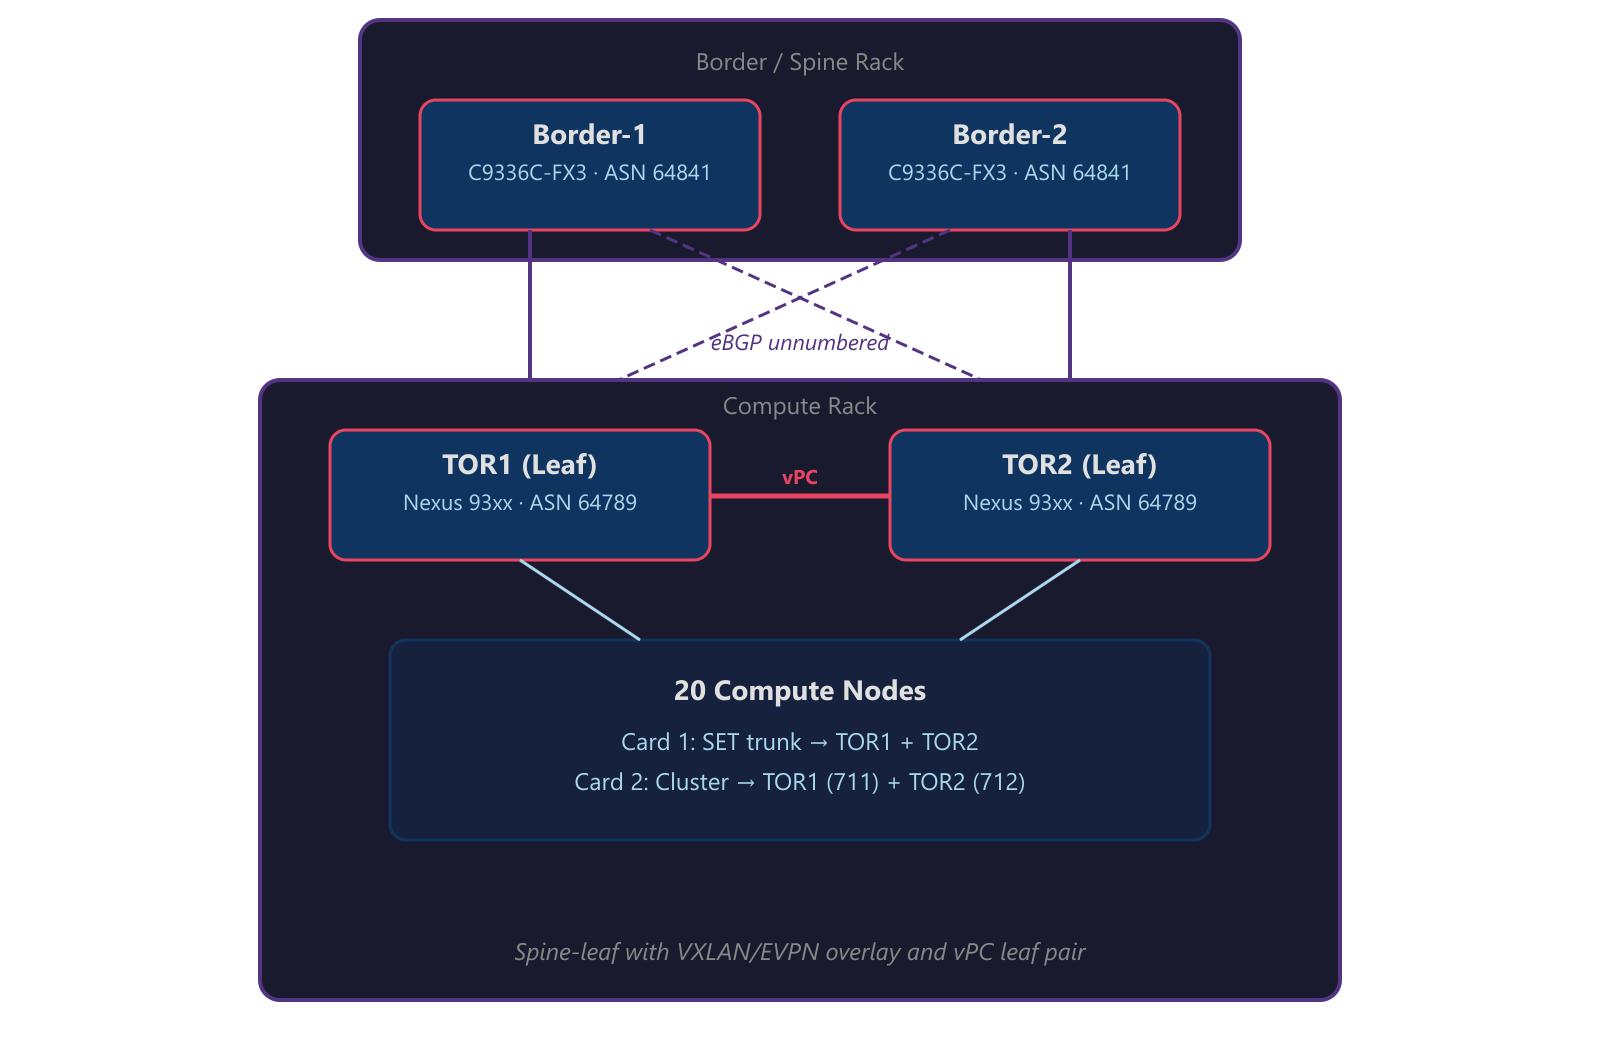
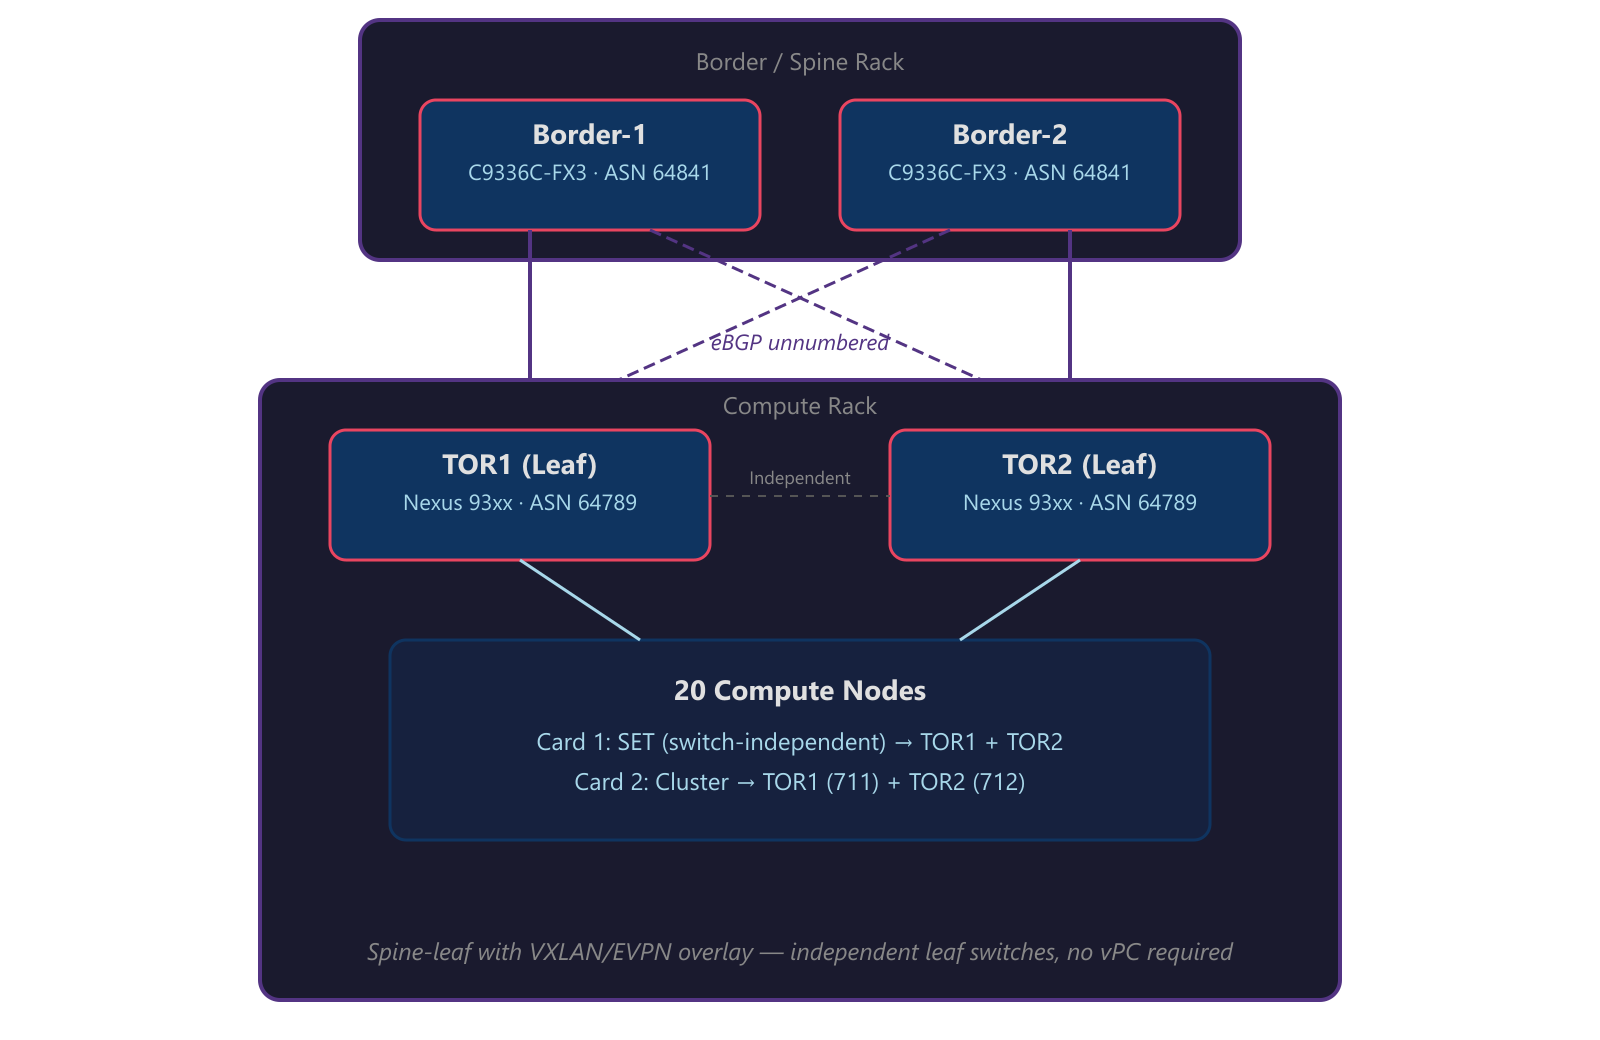
Fix EVPN draft: remove vPC, correct SET behavior (switch-independent, no LACP, no bonding)

Changed region(s): [[0.2188, 0.8923, 0.7812, 0.9231], [0.3438, 0.7077, 0.6562, 0.7385], [0.4375, 0.4308, 0.5625, 0.4923]]

diff --git a/_drafts/2026-03-27-evpn-vrf-security-windows-virtual-switch.md b/_drafts/2026-03-27-evpn-vrf-security-windows-virtual-switch.md
@@ -78,13 +78,13 @@ EVPN Type-2 routes bind MAC addresses to IP addresses at the control plane level
 
 Here's the physical topology I'm working with — a single-rack deployment with spine-leaf that scales to multi-rack:
 
-![Spine-leaf topology with VXLAN/EVPN overlay and vPC leaf pair](/assets/img/posts/2026-03-27/spine-leaf-topology.png)
+![Spine-leaf topology with VXLAN/EVPN overlay and independent leaf switches](/assets/img/posts/2026-03-27/spine-leaf-topology.png)
 
 **Key design elements:**
 
 - **eBGP unnumbered** between leaves and spines — no IP addresses to manage on fabric links, no numbered /30s to track
-- **Dual-loopback model** — Loopback0 is the shared VTEP IP (same on both vPC peers: `100.71.93.148/32`), Loopback1 is the unique BGP router-ID (`100.71.93.149/32` and `.150/32`)
-- **vPC between TOR peers** — presents a single logical switch to the hosts while maintaining independent BGP sessions
+- **Dual-loopback model** — Loopback0 is the shared VTEP IP (`100.71.93.148/32`), Loopback1 is the unique BGP router-ID (`100.71.93.149/32` and `.150/32`)
+- **Independent leaf switches** — each TOR operates as a standalone EVPN leaf. No vPC or MLAG is required because Windows SET is switch-independent (no LACP) and EVPN anycast gateway provides redundant default gateways on every leaf
 - **EVPN overlay sessions** ride loopback-to-loopback (`ebgp-multihop 2`) to the border switches for route exchange
 
 ### VNI-to-VLAN Mapping
@@ -134,11 +134,11 @@ Each compute node has three NIC cards with specific roles:
 | Card 2 (PCIe) | Cluster | Port A → TOR1 (VLAN 711), Port B → TOR2 (VLAN 712) | None (dedicated) |
 | Card 3 | Storage (FC/iSCSI/PowerFlex) | Fabric A + B | MPIO |
 
-**Card 1** is where the magic happens for workload isolation. Both ports connect as trunks carrying the management VLAN (native, untagged) plus all compute VLANs (6, 201, 301, 500, 600, 650). The Windows SET virtual switch bonds these two physical NICs into one logical uplink.
+**Card 1** is where the magic happens for workload isolation. Both ports connect as independent trunks carrying the management VLAN (native, untagged) plus all compute VLANs (6, 201, 301, 500, 600, 650). The Windows SET virtual switch teams these two physical NICs in **switch-independent mode** — no LACP, no port-channel. Each NIC appears as a standalone port to its respective TOR switch.
 
 ### The SET Virtual Switch: Bridge Between Physical and Virtual
 
-The Hyper-V virtual switch in SET mode does something clever — it presents a single virtual switch to the OS and VMs while load-balancing traffic across both physical NICs connected to different TOR switches. If TOR1 goes down, all traffic flows through TOR2 seamlessly.
+The Hyper-V virtual switch in SET mode presents a single virtual switch to the OS and VMs while distributing traffic across both physical NICs using a hash-based algorithm (Hyper-V Port mode). Each VM's MAC address is pinned to one physical NIC for inbound traffic, while different VMs can be spread across different NICs. This is switch-independent — the TOR switches have no knowledge that these NICs are teamed. If TOR1 goes down, SET detects the link failure and remaps all affected MAC addresses to the surviving NIC connected to TOR2.
 
 But here's the security-relevant part: **the virtual switch enforces VLAN tagging on VM traffic**. When you create a VM network adapter and assign it to VLAN 201, the virtual switch tags that traffic with 802.1Q VLAN 201 before it hits the physical NIC. The TOR switch only allows VLANs explicitly configured in the trunk allowed list.
 
@@ -148,7 +148,7 @@ The isolation chain looks like this:
 
 At every hop, the traffic is constrained:
 1. **Virtual switch** — only configured VLANs are permitted on VM adapters
-2. **Physical NIC** — SET trunk carries only allowed VLANs
+2. **Physical NIC** — SET team member carries only allowed VLANs (switch-independent, no LACP)
 3. **TOR switch port** — trunk allowed list restricts to VLANs 6,7,201,301,500,600,650
 4. **VXLAN encapsulation** — maps to specific VNI
 5. **VRF** — routing table isolation in the fabric
